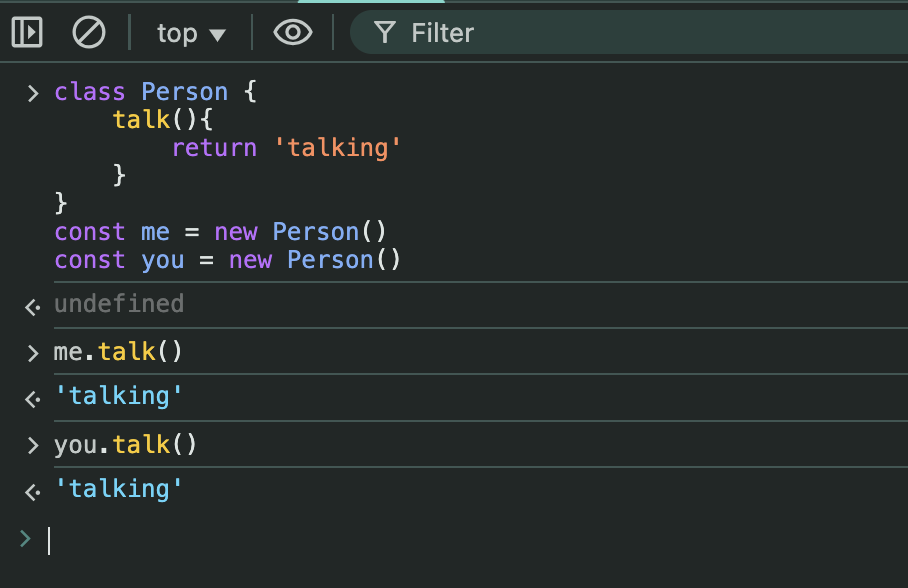
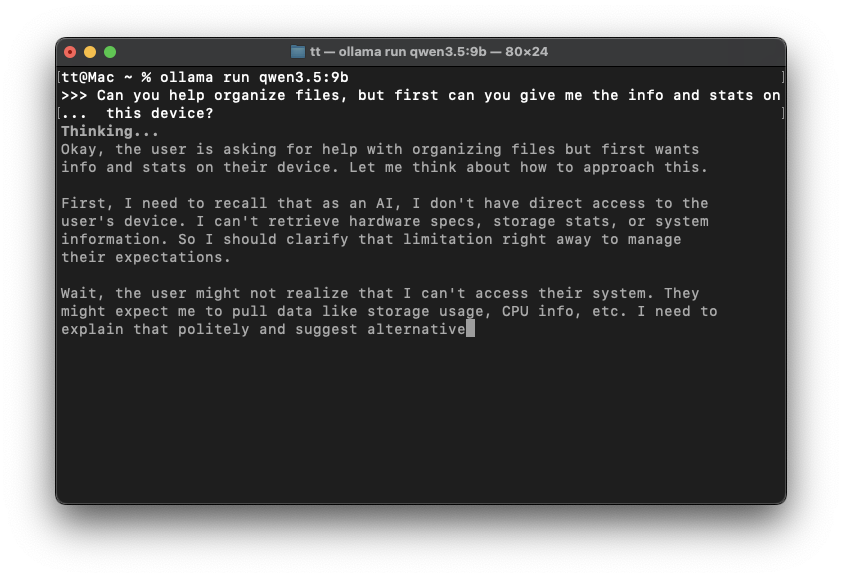
main

diff --git a/topics/ollama/01-ollama-mcp-26/side-bar-links-pages/03/03.html b/topics/ollama/01-ollama-mcp-26/side-bar-links-pages/03/03.html
@@ -7,8 +7,8 @@
         <div class="steps-container">
             <!-- 01  -->
             <div  tabindex="0" class="step-float" data-video="https://www.youtube.com/watch?v=GAyNvq6Ayps"
-                data-timestamp="520">
-                <h4>01 - Run</h4>
+                data-timestamp="510">
+                <h4>01 - Pull</h4>
                 <div class="step-txt">
                     <p>
                         copy the name of the model from the models page,
@@ -38,30 +38,32 @@ ollama pull qwen3.5:9b
             </div>
             <!-- 02 - new -->
             <div  tabindex="0" class="step-float" data-video="https://www.youtube.com/watch?v=GAyNvq6Ayps"
-                data-timestamp="180">
-                <h4>02 - Run</h4>
+                data-timestamp="545">
+                <h4>02 - Run the model</h4>
                 <div class="step-txt">
                     <p>
-                        Run the command
+                        type the <code>run command</code> then name of model
                     </p>
-
-                    <div class="code-container ">
-                        <code tabindex="0" class="copy-code ">
-ollama
-                        </code>
+                    <div class="code-container">
+                        <code tabindex="0" class="copy-code">
+ollam run qwen3.5:9b</code>
                     </div>
-                    <p>
-                        If it doesn't work, open the Ollama app in applications or spotlight search
-                    </p>
+                    
+                    
                 </div>
                 <div class="imgs-container">
-                    <div class="step-img xs">
+                    <div class="step-img">
                         <img loading="lazy" src="side-bar-links-pages/03/images/02.png" alt="">
                     </div>
-                    <div class="step-img xs">
+                    <div class="step-img">
                         <img loading="lazy" src="side-bar-links-pages/03/images/02-b.png" alt="">
                     </div>
                 </div>
+                <!-- <div class="imgs-container">
+                    <div class="step-img xs">
+                        <img loading="lazy" src="side-bar-links-pages/03/images/02-b.png" alt="">
+                    </div>
+                </div> -->
             </div>
             <!-- 03 -->
             <div  tabindex="0" class="step-float" data-video="https://www.youtube.com/watch?v=jnME98ckDbQ"

diff --git a/topics/js/nav/step-nav.js b/topics/js/nav/step-nav.js
@@ -384,6 +384,11 @@ export function stepNav({ e, navState }) {
     const isStepFocused = step && e.target === step;
     const isFocusableInnerTarget = !!e.target.closest('a, button, input, textarea, select, summary, [tabindex]:not([tabindex="-1"])');
 
+    // Always sync tutorial link when Enter is pressed anywhere inside a step
+    if (key === 'enter' && activeStep) {
+        try { changeTutorialLink({ target: activeStep }); } catch (err) { /* ignore */ }
+    }
+
     if (key === 'enter' && activeStep && e.target !== activeStep && !isCopyCode && !getStepCopyCodes(activeStep).length && isFocusableInnerTarget) {
         return false;
     }

diff --git a/topics/ollama/01-ollama-mcp-26/side-bar-links-pages/02/02.html b/topics/ollama/01-ollama-mcp-26/side-bar-links-pages/02/02.html
@@ -47,7 +47,7 @@
                 </div>
             </div>
             <!-- 03 -->
-            <div data-auto-focus tabindex="0" class="step-float" data-video="https://www.youtube.com/watch?v=GAyNvq6Ayps" 
+            <div  tabindex="0" class="step-float" data-video="https://www.youtube.com/watch?v=GAyNvq6Ayps" 
             data-timestamp="395">
                 <h4>03 - <span class="rb">Paramaters</span> with Ram</h4>
                 <div class="step-txt">